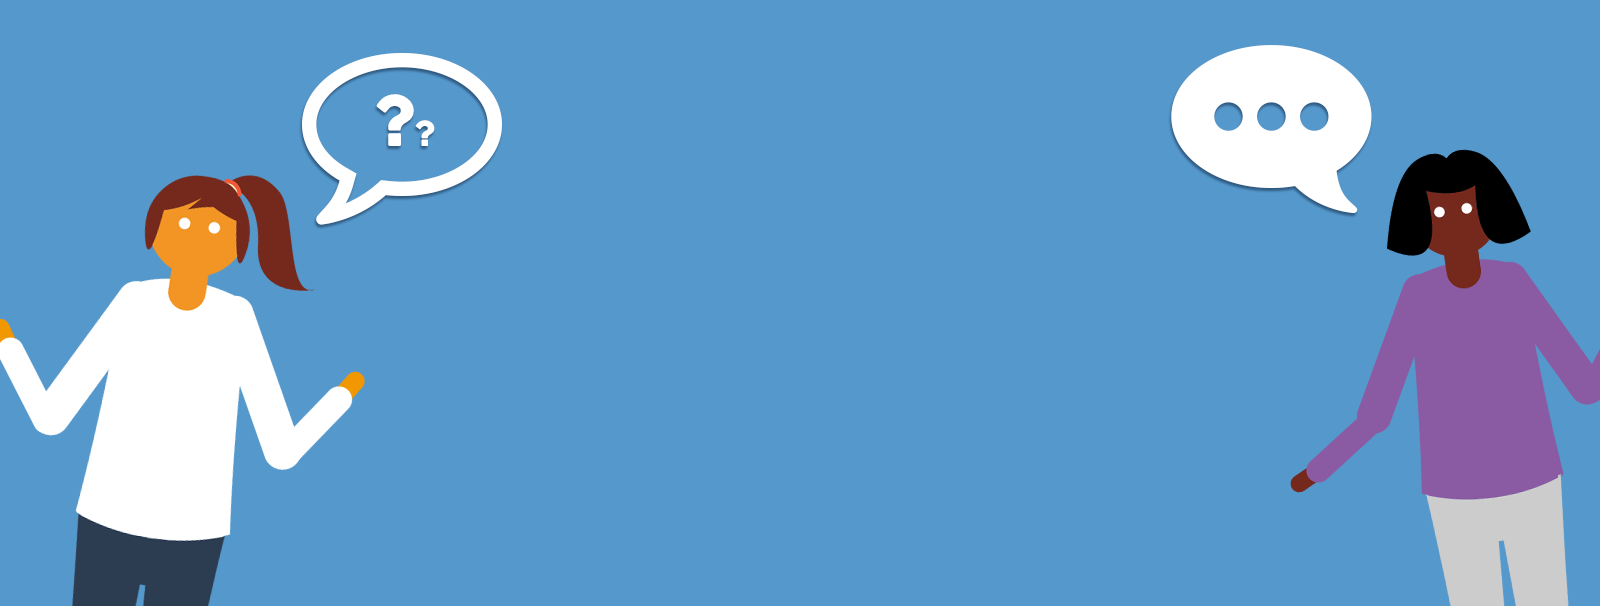
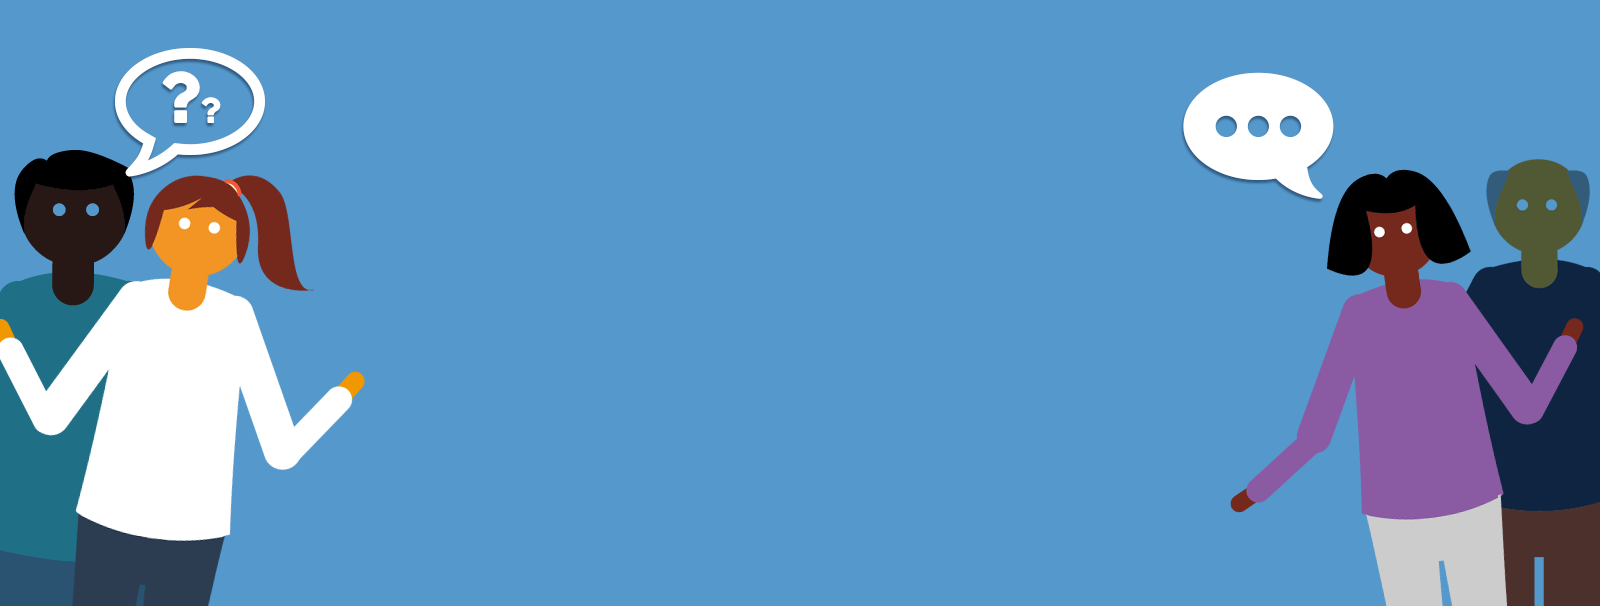
images updates plus news image /css adjustments

Changed region(s): [[0.7188, 0.0594, 1.0, 1.0], [0.0, 0.0594, 0.3125, 1.0]]

diff --git a/css/main.css b/css/main.css
@@ -962,7 +962,7 @@ a .number:hover {
     background-size:100%;
     background-repeat: no-repeat;
     background-color: #eff3f4;
-    background-position: 100% 100%;
+    background-position: 100% 20%;
 }
 
 .getintouchpage .background2 {
@@ -972,6 +972,14 @@ a .number:hover {
     background-color: #ea9940;
     background-position: 100% 10%;
     margin-bottom: 50px;
+}
+
+.updates .background2 {
+    background-image: linear-gradient(rgba(255, 255, 255, 0), rgba(0, 0, 0, 0)), url(../img/newsbg.png);
+    background-size:100%;
+    background-repeat: repeat;
+    background-color: #ea9940;
+    background-position: 100% 10%;
 }
 
 .faqx .background2 {
@@ -2051,6 +2059,10 @@ time {
 }
 
 @media screen and (max-width: 535px) {
+    
+    .supportus {
+        background-position: 100% 3%;
+    }
 
     .wtp {
         font-size: 14px;
